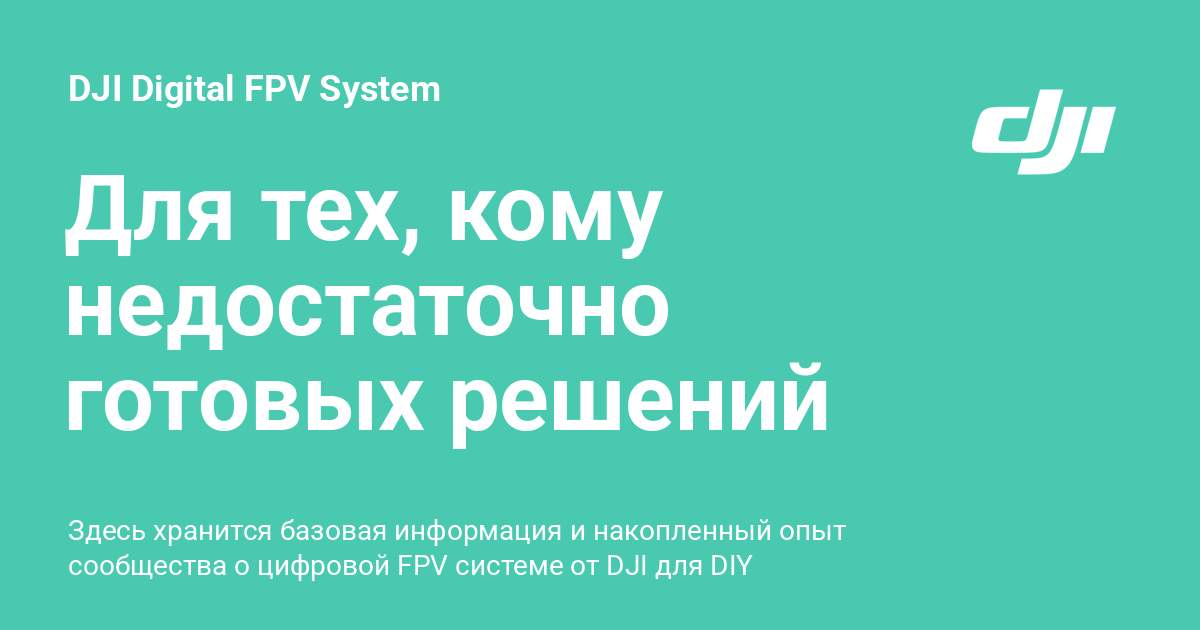
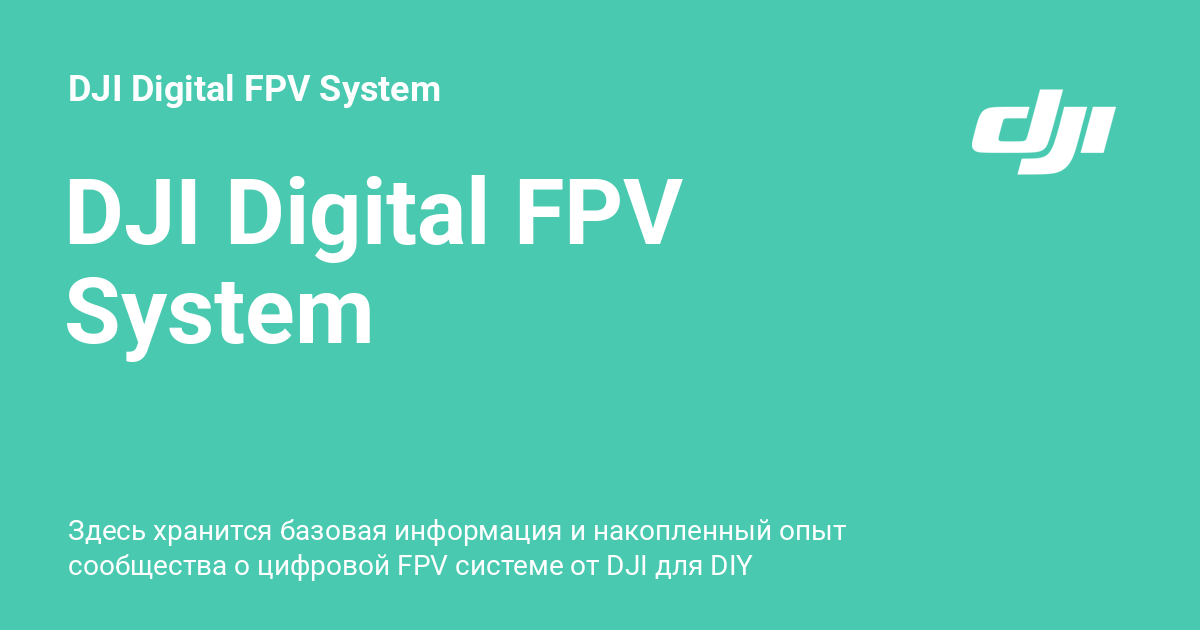
Deployed 79f13328 with MkDocs version: 1.6.1

Changed region(s): [[0.0308, 0.2714, 0.5858, 0.4222], [0.0308, 0.573, 0.7092, 0.7238], [0.0308, 0.4222, 0.555, 0.573]]

diff --git a/index.html b/index.html
@@ -26,7 +26,7 @@
     
     
       
-        <title>Для тех, кому недостаточно готовых решений от DJI - DJI Digital FPV System</title>
+        <title>DJI Digital FPV System - DJI Digital FPV System</title>
       
     
     
@@ -163,7 +163,7 @@
         <div class="md-header__topic" data-md-component="header-topic">
           <span class="md-ellipsis">
             
-              Для тех, кому недостаточно готовых решений от DJI
+              DJI Digital FPV System
             
           </span>
         </div>
